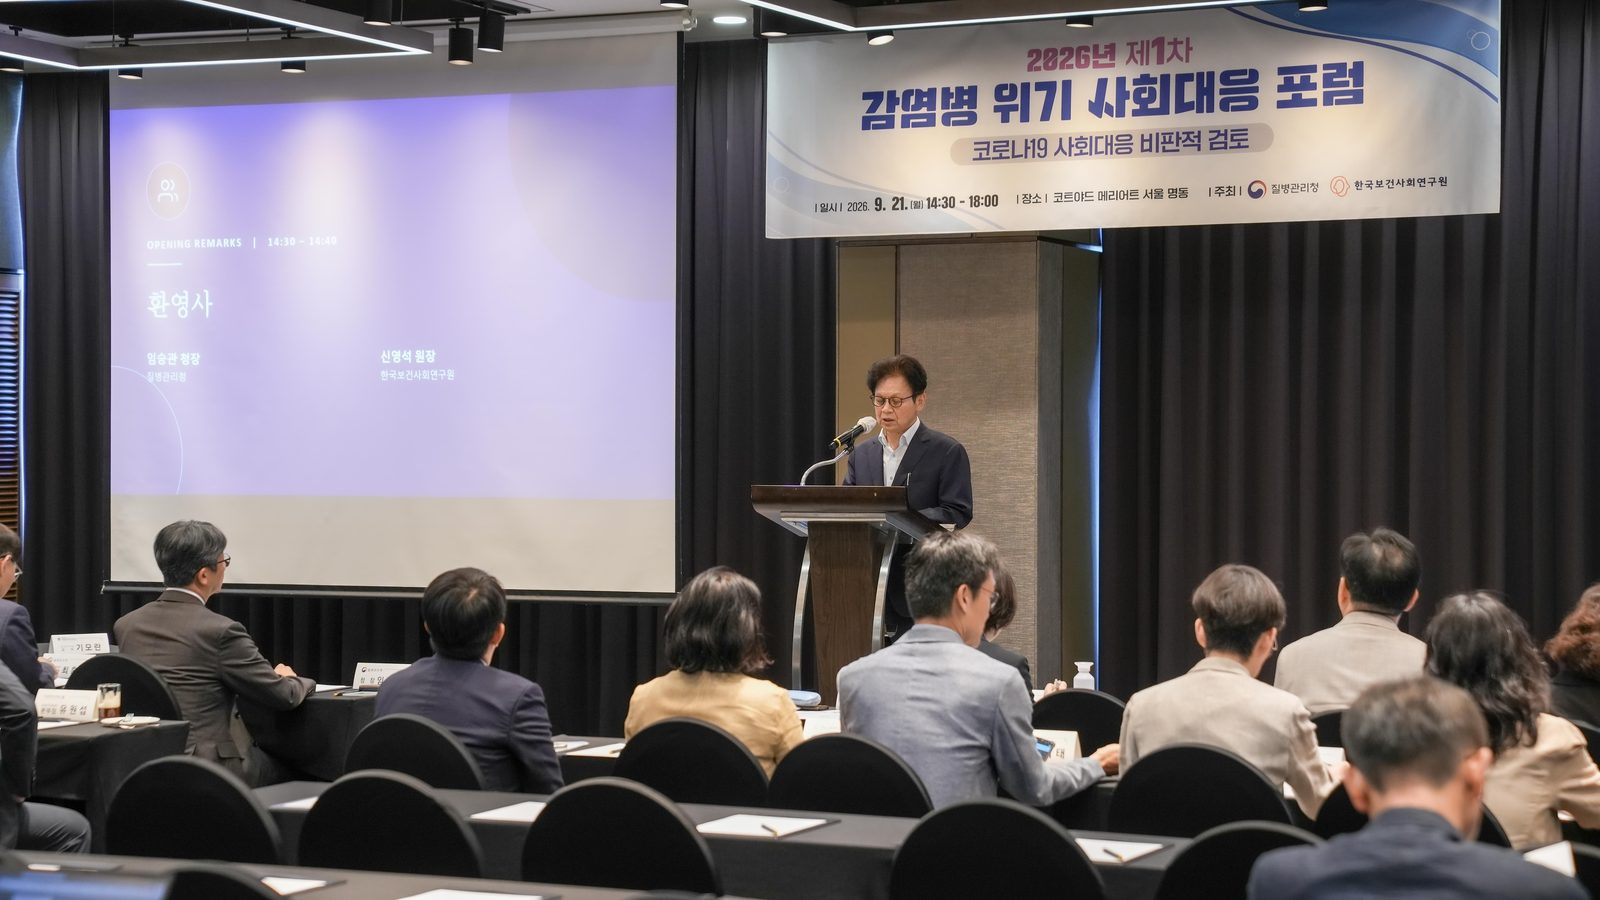
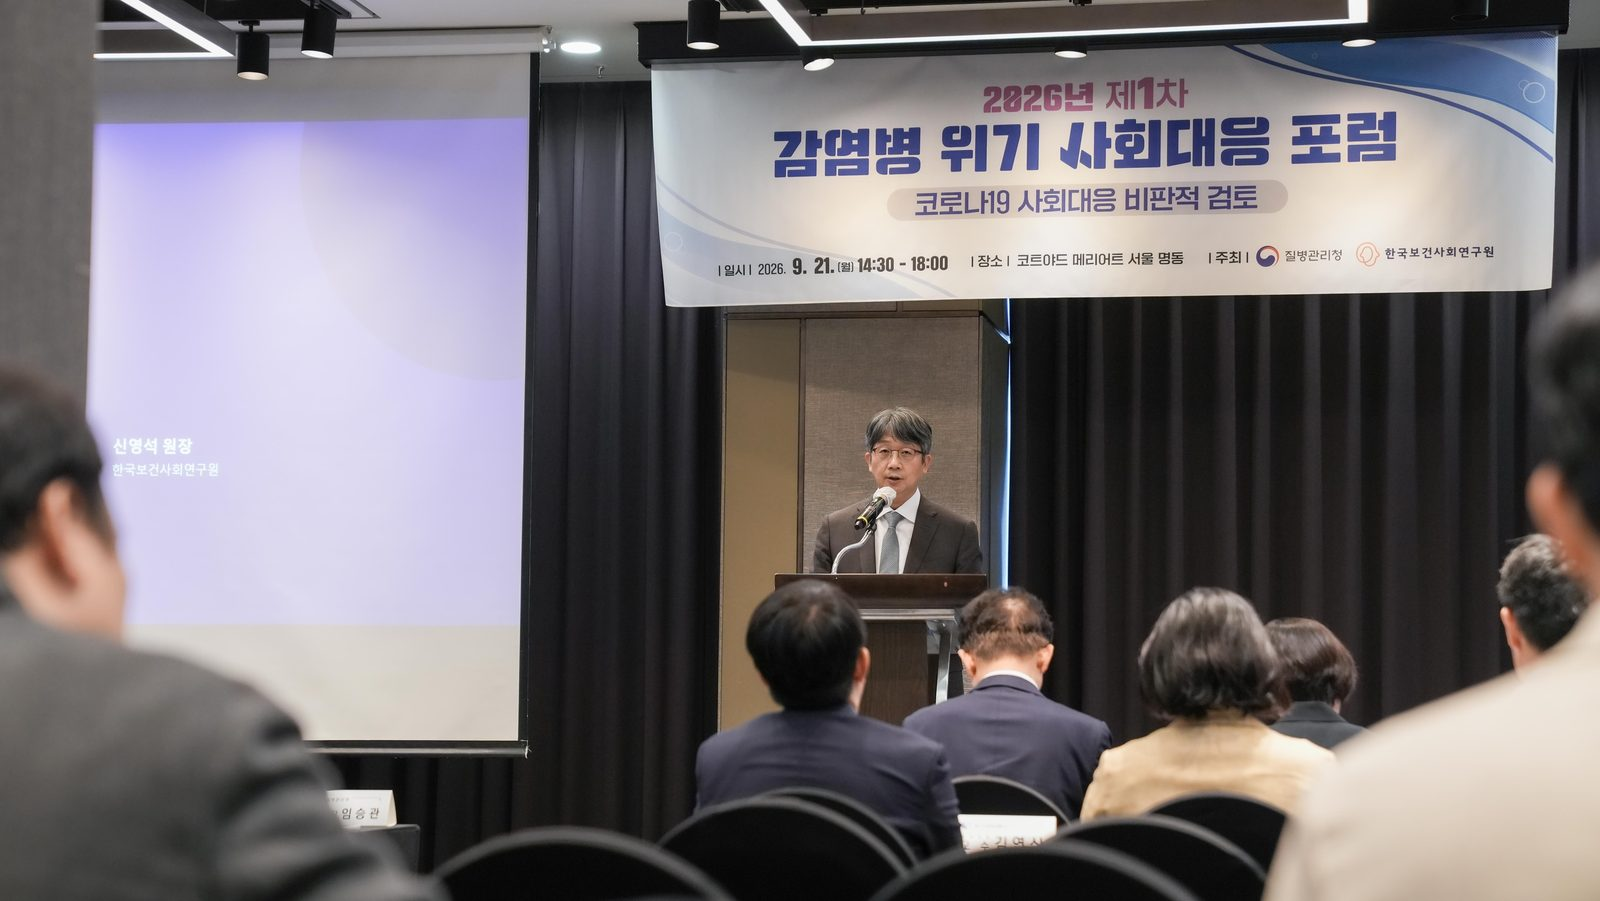
환영사 사진 바로잡음: 청장·원장 사진 서로 바꿈
Claude-Session: https://claude.ai/code/session_011faKFQwtBG944RcTvcrPMp

diff --git a/원고/2026-제1차-감염병-위기-사회대응-포럼.md b/원고/2026-제1차-감염병-위기-사회대응-포럼.md
@@ -38,7 +38,7 @@
 
 ## 환영사 · 임승관 질병관리청장
 
-![](https://webbook-kr.github.io/img/forum-2026-1/welcome-lim.jpg)
+![](https://webbook-kr.github.io/img/forum-2026-1/welcome-lim.jpg?2)
 
 - 감염병 위기는 보건의료에 머무르지 않음. 거리두기·집합 제한·등교 제한 등 사회대응은 일상·경제·교육·돌봄·사회보장·기본권 전반에 영향
 - 확산 억제와 생명 보호의 성과 뒤에 사회경제적 영향, 국민 수용성, 취약계층 영향이라는 과제
@@ -47,7 +47,7 @@
 
 ## 환영사 · 신영석 한국보건사회연구원장
 
-![](https://webbook-kr.github.io/img/forum-2026-1/welcome-shin.jpg)
+![](https://webbook-kr.github.io/img/forum-2026-1/welcome-shin.jpg?2)
 
 - 첫 확진자(2020.1.20) 이후 6년 8개월, 여전히 그 충격의 여진 속. 모든 나라의 위기대응 능력이 동시에 시험대에
 - 한국은 방역·경제·분배 세 영역에서 크지 않은 재정 투입으로도 일정한 성과. ==국민의 성숙한 협조와 자발적 참여의 덕==
